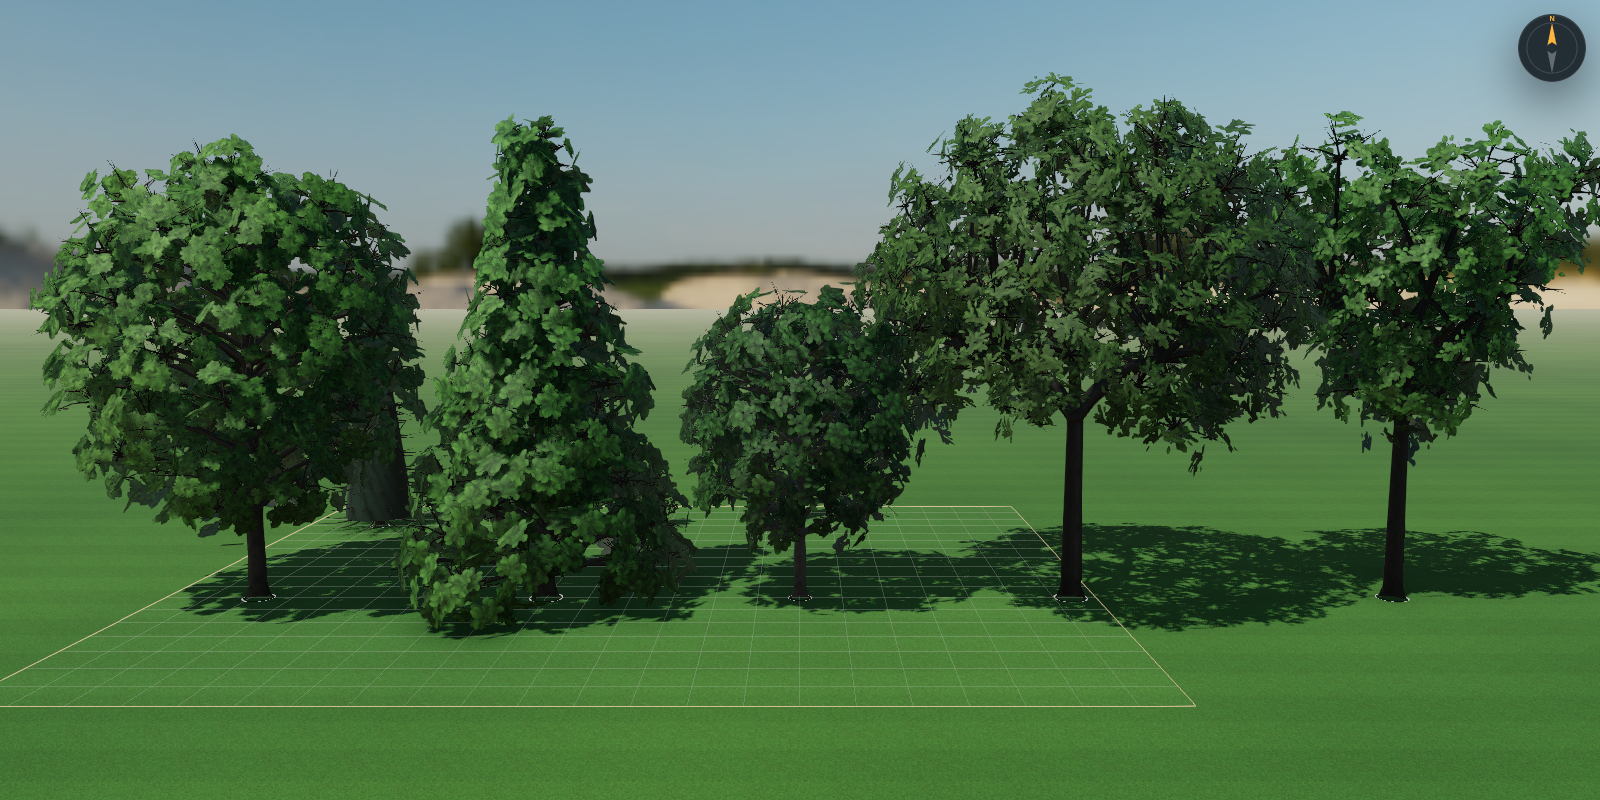
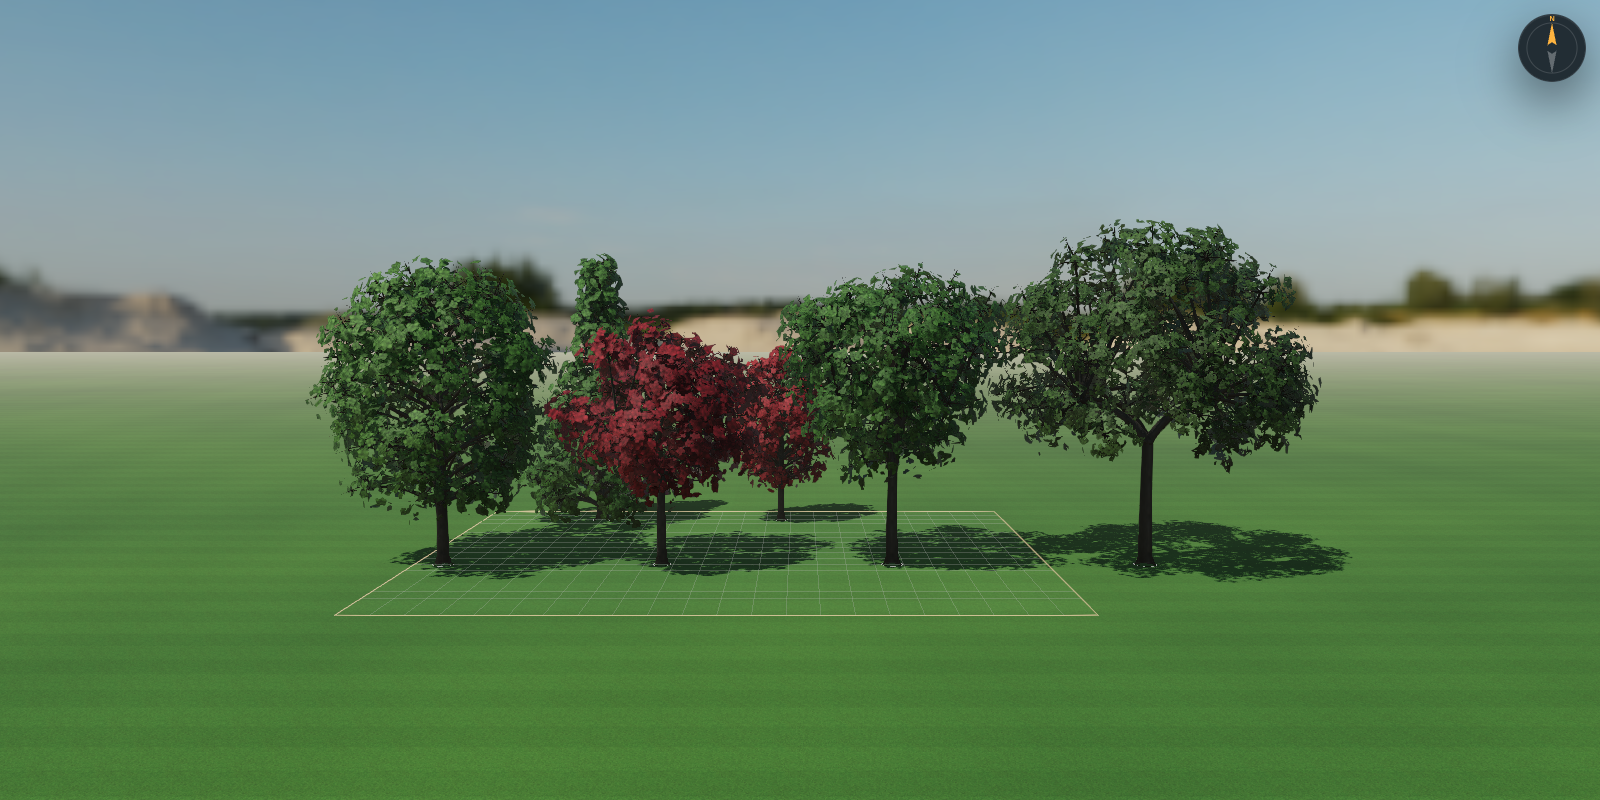
Tree variation, smaller leaves, canopy height, elm and columnar shapes
- Adjustable canopy start per tree (ft, 0.5 ft steps), used by both the
  3D tree and the shade engine
- Columnar shape is now a narrow pyramid; vase shape follows American elm
  (limbs climbing from a low fork into a broad, drooping dome)
- Controlled variation: 4 variants per variety with jittered limbs, clump
  placement, crown outline and occasional gaps; conifer whorls vary too
- Smaller leaves in a small/medium mix at the same coverage
- Red foliage for Crimson Sunset and Royal Red; add Crimson King maple and
  Colorado Blue Spruce presets
- Switching presets now carries the preset's leaf colours

Claude-Session: https://claude.ai/code/session_01WURfSMHAnRNE737jsRiEQb

diff --git a/src/trees/trees.js b/src/trees/trees.js
@@ -172,8 +172,8 @@ function card(B, base, tip, face, size, rnd, normalFn, aoFn) {
 /* ------------------------------------------------------------ builders */
 
 function crownGeometry(p) {
-  const { H, R, cb, fn, dens, kind, shape, hi } = p;
-  const r = rng(hash(`${shape}|${kind}|${H.toFixed(0)}|${R.toFixed(0)}`));
+  const { H, R, cb, fn, dens, kind, shape, hi, variant } = p;
+  const r = rng(hash(`${shape}|${kind}|${H.toFixed(0)}|${R.toFixed(0)}|${variant}`));
   const bark = new Buf();
   const leaves = new Buf();
   const mass = [];
@@ -241,7 +241,7 @@ function massGeometry(mass, p) {
 }
 
 function broadleaf(p, r, bark, leaves, mass, ctx) {
-  const { H, R, cb, dens, shape } = p;
+  const { H, R, cb, dens, shape, variant } = p;
   const { envelope, normalFn, aoFn, detail, trunkR, tipR, crownH } = ctx;
 
   // 1. Foliage clumps just inside the crown envelope, laid on one golden-angle
@@ -261,12 +261,19 @@ function broadleaf(p, r, bark, leaves, mass, ctx) {
     const u = (k - 1 + (target - cdf[k - 1]) / Math.max(1e-6, cdf[k] - cdf[k - 1])) / samples;
     const y = cb + u * crownH;
     const pr = envelope(y);
-    const a = i * GOLDEN;
-    const rad = Math.max(0, pr - clumpR * (0.62 + 0.18 * r()));
-    clumps.push({ c: V(Math.cos(a) * rad, y + (r() - 0.5) * clumpR * 0.3, Math.sin(a) * rad), a, outer: true });
+    const a = i * GOLDEN + (r() - 0.5) * 0.55;
+    // Lumpy, not lathe-turned: each clump sits a little in or out of the envelope.
+    const bump = 1 + (r() - 0.5) * 0.24;
+    const rad = Math.max(0, pr * bump - clumpR * (0.6 + 0.2 * r()));
+    if (i > 3 && r() < 0.06) continue;   // the odd gap in the canopy
+    let cy = y + (r() - 0.5) * clumpR * 0.5;
+    // Elms: the outer canopy arches over and droops at the rim.
+    if (shape === 'vase' && u > 0.45) cy -= clumpR * 0.35 * (u - 0.45) / 0.55;
+    clumps.push({ c: V(Math.cos(a) * rad, cy, Math.sin(a) * rad), a, outer: true, k: 0.8 + 0.4 * r() });
   }
   // A sparse inner layer so you don't see daylight through the middle.
-  const innerCount = Math.round(count * 0.18);
+  // Elms stay open underneath so the arching limbs show.
+  const innerCount = shape === 'vase' ? 0 : Math.round(count * 0.18);
   for (let i = 0; i < innerCount; i++) {
     const u = 0.15 + 0.7 * ((i + 0.5) / innerCount);
     const y = cb + u * crownH;
@@ -279,14 +286,15 @@ function broadleaf(p, r, bark, leaves, mass, ctx) {
   // 2. Skeleton. Leader shapes keep a central stem; the rest fork into scaffold limbs.
   const leader = shape === 'oval' || shape === 'pyramidal' || shape === 'columnar';
   const trunkTop = leader ? cb + crownH * 0.82 : cb;
-  const K = { spreading: 5, vase: 6, weeping: 5 }[shape] || 5;
+  const K = ({ spreading: 5, vase: 5, weeping: 5 }[shape] || 5) + (variant % 2 ? 1 : 0) - (variant === 2 ? 1 : 0);
   const scaffold = [];
   if (!leader) {
-    const reach = { spreading: 0.55, vase: 0.5, weeping: 0.35 }[shape] || 0.38;
-    const rise = { spreading: 0.22, vase: 0.5, weeping: 0.45 }[shape] || 0.35;
+    const reach = { spreading: 0.55, vase: 0.62, weeping: 0.35 }[shape] || 0.38;
+    const rise = { spreading: 0.22, vase: 0.6, weeping: 0.45 }[shape] || 0.35;
     for (let k = 0; k < K; k++) {
-      const a = (k / K) * Math.PI * 2;
-      const end = V(Math.cos(a) * R * reach, cb + crownH * rise, Math.sin(a) * R * reach);
+      const a = (k / K) * Math.PI * 2 + (r() - 0.5) * 0.5;
+      const rr = reach * (0.85 + 0.3 * r());
+      const end = V(Math.cos(a) * R * rr, cb + crownH * rise * (0.88 + 0.24 * r()), Math.sin(a) * R * rr);
       scaffold.push({ a, end, tips: 0 });
     }
   }
@@ -303,13 +311,19 @@ function broadleaf(p, r, bark, leaves, mass, ctx) {
     }
   }
   const segs = hi(detail, 10, 14);
-  tube(bark, curve(V(0, 0, 0), V(0, trunkTop * 0.5, 0), V(0, trunkTop, 0), 6), trunkR, leader ? tipR * 2 : trunkR * 0.72, segs);
+  const lean = V((r() - 0.5) * R * 0.05, 0, (r() - 0.5) * R * 0.05);
+  const top = leader ? V(lean.x, trunkTop, lean.z) : V(0, shape === 'vase' ? cb * 0.82 : trunkTop, 0);
+  tube(bark, curve(V(0, 0, 0), V(lean.x * 0.3, top.y * 0.5, lean.z * 0.3), top, 6), trunkR, leader ? tipR * 2 : trunkR * 0.72, segs);
   // A root flare where the trunk meets the ground.
   tube(bark, [V(0, -0.2, 0), V(0, 0.6, 0), V(0, 1.4, 0)], trunkR * 1.45, trunkR * 1.02, segs);
+  const fork = shape === 'vase' ? cb * 0.82 : cb * 0.97;
   for (const s of scaffold) {
-    const ctrl = V(s.end.x * 0.3, cb + (s.end.y - cb) * 0.75, s.end.z * 0.3);
+    // Elm limbs climb almost vertically before arching out; others spread sooner.
+    const ctrl = shape === 'vase'
+      ? V(s.end.x * 0.12, fork + (s.end.y - fork) * 0.92, s.end.z * 0.12)
+      : V(s.end.x * 0.3, cb + (s.end.y - cb) * 0.75, s.end.z * 0.3);
     const rs = Math.min(trunkR * 0.68, tipR * 1.4 * Math.sqrt(Math.max(1, s.tips)));
-    tube(bark, curve(V(0, cb * 0.97, 0), ctrl, s.end, 6), rs, rs * 0.6, hi(detail, 7, 9));
+    tube(bark, curve(V(0, fork, 0), ctrl, s.end, 7), rs, rs * 0.6, hi(detail, 7, 9));
   }
   for (const cl of clumps) {
     const A = cl.from;
@@ -339,8 +353,9 @@ function broadleaf(p, r, bark, leaves, mass, ctx) {
   }
 
   // 3. Leaves: leaf-cluster cards filling each clump, facing mostly outward.
-  const size = THREE.MathUtils.clamp(clumpR * 0.95, 1.4, 4.2) / (detail > 1 ? 1.3 : 1);
-  const perClump = Math.round((6 + 9 * dens) * (clumpR / size) ** 2 * (detail > 1 ? 1.4 : 1));
+  const size = THREE.MathUtils.clamp(clumpR * 0.72, 1.0, 3.0) / (detail > 1 ? 1.25 : 1);
+  // Mean card is ~0.75 × size, so scale the count to keep coverage.
+  const perClump = Math.round((6 + 9 * dens) * (clumpR / (size * 0.75)) ** 2 * (detail > 1 ? 1.3 : 1));
   for (const cl of clumps) {
     const P = cl.c;
     const nf = normalFn(P);
@@ -356,7 +371,8 @@ function broadleaf(p, r, bark, leaves, mass, ctx) {
       const face = d.clone().multiplyScalar(0.55).addScaledVector(out, 0.35).addScaledVector(UP, 0.25)
         .addScaledVector(randUnit(r), 0.45).normalize();
       const tip = V().crossVectors(face, randUnit(r)).normalize();
-      const s = size * (0.8 + 0.4 * r());
+      // Mostly small and medium sprays, a few large ones.
+      const s = size * (0.45 + 0.75 * r() ** 1.6) * (cl.k || 1);
       card(leaves, centre.addScaledVector(tip, -s * 0.5), tip, face, s, r(), nf, af);
     }
   }
@@ -395,13 +411,14 @@ function conifer(p, r, bark, leaves, mass, ctx) {
     const u = (j + 0.5) / whorls;
     const y = cb + u * crownH;
     const L = Math.max(0.3, envelope(y));
-    const n = THREE.MathUtils.clamp(Math.round(5 + L * 0.7), 5, 11);
+    const n = THREE.MathUtils.clamp(Math.round(5 + L * 0.7 + (r() - 0.5) * 2), 4, 12);
     for (let k = 0; k < n; k++) {
-      const a = (k / n) * Math.PI * 2 + j * GOLDEN;
+      if (r() < 0.08) continue;
+      const a = (k / n) * Math.PI * 2 + j * GOLDEN + (r() - 0.5) * 0.45;
       const dir = V(Math.cos(a), 0, Math.sin(a));
       // Habit: spruce droops then lifts at the tip; juniper and pine ascend.
       const lift = kind === 'spruce' ? -0.18 : kind === 'juniper' ? 0.7 : 0.4;
-      const len = kind === 'juniper' ? L * 0.95 : L;
+      const len = (kind === 'juniper' ? L * 0.95 : L) * (0.85 + 0.25 * r());
       const start = V(0, y - (kind === 'juniper' ? len * 0.35 : 0), 0);
       const end = start.clone().addScaledVector(dir, len).addScaledVector(UP, len * lift);
       const ctrl = start.clone().addScaledVector(dir, len * 0.55).addScaledVector(UP, len * (kind === 'spruce' ? -0.28 : lift * 0.4));
@@ -444,22 +461,22 @@ function conifer(p, r, bark, leaves, mass, ctx) {
     return { tip, face };
   };
   const clumpR = THREE.MathUtils.clamp(R * (kind === 'juniper' ? 0.42 : 0.38), 0.7, 4);
-  const cardS = THREE.MathUtils.clamp(clumpR * (kind === 'spruce' ? 1.5 : 1.25), 0.9, 5) / (detail > 1 ? 1.25 : 1);
+  const cardS = THREE.MathUtils.clamp(clumpR * (kind === 'spruce' ? 1.2 : 1.0), 0.7, 4) / (detail > 1 ? 1.25 : 1);
   const samples = 64;
   const cdf = [0];
   for (let i = 1; i <= samples; i++) cdf.push(cdf[i - 1] + Math.max(0.05, envelope(cb + ((i - 0.5) / samples) * crownH)));
   const shellArea = cdf[samples] * (crownH / samples) * Math.PI * 2;
   const count = THREE.MathUtils.clamp(Math.round((shellArea / (Math.PI * clumpR * clumpR)) * 1.4), 10, 220);
-  const per = Math.round((5 + 7 * dens) * (clumpR / cardS) ** 2 * 2.2 * (detail > 1 ? 1.4 : 1)) + 2;
+  const per = Math.round((5 + 7 * dens) * (clumpR / (cardS * 0.8)) ** 2 * 2.2 * (detail > 1 ? 1.3 : 1)) + 2;
   for (let i = 0; i < count; i++) {
     const target = ((i + 0.5) / count) * cdf[samples];
     let k = 1;
     while (k < samples && cdf[k] < target) k++;
     const u = (k - 1 + (target - cdf[k - 1]) / Math.max(1e-6, cdf[k] - cdf[k - 1])) / samples;
     const y = cb + u * crownH;
-    const a = i * GOLDEN;
+    const a = i * GOLDEN + (r() - 0.5) * 0.5;
     const out = V(Math.cos(a), 0, Math.sin(a));
-    const rad = Math.max(0, envelope(y) - clumpR * 0.55);
+    const rad = Math.max(0, envelope(y) * (1 + (r() - 0.5) * 0.16) - clumpR * 0.55);
     const P = V(out.x * rad, y, out.z * rad);
     const nf = normalFn(P);
     const af = aoFn(P, clumpR);
@@ -467,7 +484,7 @@ function conifer(p, r, bark, leaves, mass, ctx) {
       const d = randUnit(r);
       const centre = P.clone().addScaledVector(d, clumpR * 0.6 * Math.sqrt(r()));
       const { tip, face } = orient(d, out);
-      const s = cardS * (0.8 + 0.4 * r());
+      const s = cardS * (0.5 + 0.7 * r() ** 1.5);
       card(leaves, centre.addScaledVector(tip, -s * 0.35), tip, face, s, r(), nf, af);
     }
   }
@@ -549,10 +566,11 @@ export class TreeLibrary {
     const H = Math.max(2, t.height);
     const R = Math.max(0.5, t.spread / 2);
     const dens = Math.round(THREE.MathUtils.clamp(t.density ?? 0.85, 0.1, 1) * 20) / 20;
-    const key = [t.shape, kind, H.toFixed(1), R.toFixed(1), dens, crownBase.toFixed(2), this.high].join('|');
+    const variant = (t.id ?? 0) % 4;
+    const key = [t.shape, kind, H.toFixed(1), R.toFixed(1), dens, crownBase.toFixed(3), this.high, variant].join('|');
     let g = this.cache.get(key);
     if (!g) {
-      g = crownGeometry({ H, R, cb: H * crownBase, fn: profile, dens, kind, shape: t.shape, hi: this.high });
+      g = crownGeometry({ H, R, cb: H * crownBase, fn: profile, dens, kind, shape: t.shape, hi: this.high, variant });
       for (const x of Object.values(g)) if (x) x.userData.shared = true;
       this.cache.set(key, g);
       if (this.cache.size > 80) {

diff --git a/src/app.js b/src/app.js
@@ -17,9 +17,10 @@ const SHAPES = {
   round:     {label:"Round crown (maple, ash)",      base:.32, r:u=>Math.sqrt(Math.max(0,1-Math.pow(2*u-1,2)))},
   oval:      {label:"Upright oval (linden, alder)",  base:.22, r:u=>Math.pow(Math.max(0,1-Math.pow(2*u-1,2)),.36)},
   pyramidal: {label:"Pyramidal (spruce, fir)",       base:.05, r:u=>Math.pow(1-u,.8)},
-  columnar:  {label:"Columnar (juniper, mugo)",      base:.06, r:u=>u<.82?.92+.08*Math.sin(u*4):Math.sqrt(Math.max(0,1-Math.pow((u-.82)/.18,2)))},
+  columnar:  {label:"Columnar (narrow pyramid)",     base:.05, r:u=>Math.max(.04, Math.pow(1-u,.62))},
   spreading: {label:"Wide spreading (oak, locust)",  base:.40, r:u=>Math.pow(Math.sin(Math.PI*(.22+.72*u)),.45)},
-  vase:      {label:"Vase (elm, serviceberry)",      base:.42, r:u=>.32+.68*Math.pow(u,.75)},
+  vase:      {label:"Vase (elm, serviceberry)",      base:.36,
+              r:u=>u<.72 ? .16+.84*Math.pow(Math.sin(Math.PI/2*u/.72),1.25) : Math.sqrt(Math.max(0,1-Math.pow((u-.72)/.28,2)))},
   weeping:   {label:"Weeping (willow, river birch)", base:.16, r:u=>Math.pow(Math.sin(Math.PI*(.18+.78*u)),.42)}
 };
 const PRESETS = [
@@ -47,9 +48,9 @@ const PRESETS = [
   note:"Picea abies 'Cupressina'. Very narrow column that keeps its lower branches. Hardy to zone 3."},
  {g:"Shortlist", n:"Columnar Norway Pine", s:"columnar", h:25, w:8, ev:true, d:.85, leaf:0x2a4a26,
   note:"Narrow upright conifer. Mature size varies a lot between growers — confirm the tag."},
- {g:"Already here", n:"Royal Red maple", s:"round", h:35, w:25, ev:false, d:.95, leaf:0x4a2530, fall:0x5a1f1f,
+ {g:"Already here", n:"Royal Red maple", s:"round", h:35, w:25, ev:false, d:.95, leaf:0x8a2230, fall:0x9a2a1c,
   note:"Norway maple. Round, very dense crown — the deepest shade of the maples here."},
- {g:"Already here", n:"Crimson Sunset maple", s:"oval", h:35, w:22, ev:false, d:.90, leaf:0x5a2a36, fall:0x6a2424,
+ {g:"Already here", n:"Crimson Sunset maple", s:"oval", h:35, w:22, ev:false, d:.90, leaf:0x92222e, fall:0xa0301e,
   note:"Upright oval, purple foliage, denser and narrower than a Freeman maple."},
  {g:"Already here", n:"Swamp white oak", s:"spreading", h:55, w:50, ev:false, d:.70, leaf:0x3f5f2a, fall:0x8a5a2a,
   note:"Wide spreading crown with a fairly open interior. Leafs out late."},
@@ -57,6 +58,10 @@ const PRESETS = [
   note:"Vase shape with a high crown, so shade lands well out from the trunk."},
  {g:"Already here", n:"Flowering crabapple", s:"round", h:18, w:18, ev:false, d:.70, leaf:0x4a7030, fall:0xa0702a,
   note:"Small round crown, light shade. Safe near a bed."},
+ {g:"Shortlist", n:"Crimson King maple", s:"round", h:40, w:35, ev:false, d:.95, leaf:0x7e1a26, fall:0x8e2a1c,
+  note:"Norway maple with deep red-maroon leaves all season. Dense, round crown and heavy shade."},
+ {g:"Shortlist", n:"Colorado Blue Spruce", s:"pyramidal", h:50, w:20, ev:true, d:.93, leaf:0x7092a8,
+  note:"Picea pungens. Silver-blue needles on a stiff, broad pyramid. Very hardy (zone 2); shades year round."},
  {g:"Already here", n:"Black Hills spruce", s:"pyramidal", h:35, w:18, ev:true, d:.95, leaf:0x3a5a4a,
   note:"Dense conifer that shades year round, including the low winter sun."},
  {g:"Already here", n:"Pinky Winky hydrangea", s:"round", h:8, w:6, ev:false, d:.75, leaf:0x4a7a30, fall:0x8a6a30,
@@ -392,9 +397,16 @@ function bearingVec(az){
 }
 
 /* ============================================================ shade geometry */
+/* Height (ft) where the lowest leaves start: the tree's own setting, or the
+   crown shape's default. The shade engine and the 3D tree both use this. */
+function crownBaseFt(t){
+  const sh = SHAPES[t.shape] || SHAPES.round;
+  const top = Math.max(1, t.height - 1);
+  return clamp(Number.isFinite(t.crownBase) ? t.crownBase : Math.round(t.height*sh.base*2)/2, 0, top);
+}
 function treeCrown(t){
   const sh = SHAPES[t.shape] || SHAPES.round;
-  return {cb: t.height*sh.base, top: t.height, R: t.spread/2, fn: sh.r};
+  return {cb: crownBaseFt(t), top: t.height, R: t.spread/2, fn: sh.r};
 }
 function treeDiscs(t, u, cot){
   const {cb, top, R, fn} = treeCrown(t);
@@ -759,7 +771,7 @@ function buildTree(t){
   if(S.simple){ buildTreeSimple(grp, t, {cb, top, R, fn}); return grp; }
 
   const sh = SHAPES[t.shape] || SHAPES.round;
-  grp.add(trees.build(t, {bare, fall:fallAmount(), crownBase:sh.base, profile:sh.r}));
+  grp.add(trees.build(t, {bare, fall:fallAmount(), crownBase:crownBaseFt(t)/Math.max(1, t.height), profile:sh.r}));
 
   const r0 = Math.max(.5, trunkR*2.1);
   const ring = new THREE.Mesh(new THREE.RingGeometry(r0, r0+.3, 28),
@@ -2390,7 +2402,7 @@ function drawPanel(){
   }
   title.textContent = o.name;
   tag.textContent = o.type === "structure" ? "building" : o.type;
-  const key = [o.id, nodeEdit, activeNode, o.poly?o.poly.length:0].join("|");
+  const key = [o.id, nodeEdit, activeNode, o.poly?o.poly.length:0, o.type === "tree" ? o.height+"|"+o.shape : ""].join("|");
   if(panelFor === key){
     if(o.type === "boundary" && !props.contains(document.activeElement)){
       panelFor = "init";
@@ -2400,7 +2412,7 @@ function drawPanel(){
     props.querySelectorAll("input[data-key]").forEach(i=>{
       if(document.activeElement === i) return;
       if(i.type === "checkbox") i.checked = !!o[i.dataset.key];
-      else i.value = o[i.dataset.key];
+      else i.value = i.dataset.key === "crownBase" ? crownBaseFt(o) : o[i.dataset.key];
     });
     const box = props.querySelector(".stat");
     if(box){
@@ -2425,6 +2437,7 @@ function drawPanel(){
       + `<select data-key="shape">${Object.entries(SHAPES).map(([k,v])=>`<option value="${k}" ${k===o.shape?"selected":""}>${v.label}</option>`).join("")}</select>`
       + slider("Height","height",2,90,1,o.height)
       + slider("Crown width","spread",1,80,1,o.spread)
+      + slider("Canopy starts at","crownBase",0,Math.max(1, o.height-1),.5,crownBaseFt(o))
       + slider("Canopy density","density",.1,1,.05,o.density ?? .85,"×")
       + `<div class="field"><span class="lab">Evergreen</span><input type="checkbox" class="sw" data-key="evergreen" ${o.evergreen?"checked":""}></div>`
       + `<h4>Position</h4>`
@@ -2471,15 +2484,15 @@ function drawPanel(){
   props.innerHTML = html;
   syncRanges(props);
 }
-const GEOKEYS = new Set(["height","spread","density","shape","evergreen","w","h","surface"]);
+const GEOKEYS = new Set(["height","spread","density","shape","evergreen","w","h","surface","crownBase"]);
 props.addEventListener("input", e=>{
   const o = selected();
   if(!o) return;
   if(e.target.hasAttribute("data-preset")){
     const p = PRESETS[+e.target.value];
     if(!p) return;
-    o.name = p.n; o.shape = p.s; o.height = p.h; o.spread = p.w;
-    o.evergreen = p.ev; o.density = p.d; o.note = p.note;
+    o.name = p.n; o.shape = p.s; o.height = p.h; o.spread = p.w; delete o.crownBase;
+    o.evergreen = p.ev; o.density = p.d; o.note = p.note; o.leaf = p.leaf; o.fall = p.fall;
     panelFor = null;
     rebuildObject(o); drawPanel(); drawList(); updateSelection(); scheduleCompute();
     return;

diff --git a/src/trees/leafTextures.js b/src/trees/leafTextures.js
@@ -204,7 +204,7 @@ function paintBroadleafSprig(g, N, spec, rand) {
 function paintBroadleafCluster(g, N, spec, rand) {
   const cx = N / 2;
   const cy = N / 2;
-  const M = spec.veins === 'palmate' ? 22 : 30;
+  const M = spec.veins === 'palmate' ? 34 : 46;
   const leaves = [];
   for (let i = 0; i < M; i++) {
     // Irregular scatter (not a rosette): random positions in a lumpy disc.
@@ -227,7 +227,8 @@ function paintBroadleafCluster(g, N, spec, rand) {
   // Inner leaves first (shaded), outer ones last so the rim stays crisp.
   leaves.sort((p, q) => p.f - q.f);
   for (const l of leaves) {
-    const size = N * Math.min(spec.size, 0.15) * 1.25 * (0.85 + rand() * 0.3);
+    // Smaller leaves, more of them: medium and small, a few large.
+    const size = N * Math.min(spec.size, 0.15) * (0.7 + rand() ** 1.5 * 0.55);
     // Mostly hanging with the light, pointing any which way.
     const rot = (rand() < 0.6 ? l.a + Math.PI / 2 : rand() * Math.PI * 2) + (rand() - 0.5) * 1.6;
     // Shade toward the centre: this is what makes the card read as a volume.

diff --git a/README.md b/README.md
@@ -29,7 +29,7 @@ All of the original planner's features and navigation are unchanged:
 - **Everything in the yard:** every object with its size, distance to the property line and sun hours.
 - **Plan file:** save and open JSON plans, start over, undo and redo (60 steps), and import a property image to trace and scale the lot.
 - **Inspector:**
-  - Tree presets and crown shapes, with property-line clearance.
+  - Tree presets and crown shapes, with property-line clearance. **Canopy starts at** sets the height of the lowest leaves (ft, 0.5 ft steps); the shade engine uses it too.
   - Bed sun hours with a planting verdict.
   - Reshaping and height for buildings, decks and paving.
   - Duplicate and delete.
@@ -57,7 +57,7 @@ The sun position comes from the original's NOAA-based solar maths. It matches su
 | --- | --- |
 | HDRI or physical sky. The HDRI's sun is detected, clamped out of the lighting, and rotated to the solar-maths sun, with house angle vs. north applied. | `src/scene/environment.js` |
 | RenderPass → N8AO → ACES → SMAA, half-float buffers, with no tone mapping on the renderer. It switches cleanly between the perspective and plan (orthographic) cameras. | `src/post.js` |
-| Procedural trees built in feet from each tree's crown shape (the same profile the shade engine uses), height, spread and density. Broadleaves fill the crown with leaf clumps on a golden-angle spiral, then grow a symmetric skeleton (trunk, scaffold limbs or central leader, branches, winter twigs) to reach them. Conifers grow in whorls with their own habits: spruce (drooping layered sprays), juniper (dense upright scale foliage with berries), pine and mugo (needle tufts, mugo multi-stemmed). Interior leaves are shaded darker; fall colour starts on the sun-facing outer leaves. EZ-Tree supplies only the bark textures. | `src/trees/trees.js` |
+| Procedural trees built in feet from each tree's crown shape (the same profile the shade engine uses), height, spread and density. Broadleaves fill the crown with leaf clumps on a golden-angle spiral, then grow a symmetric skeleton (trunk, scaffold limbs or central leader, branches, winter twigs) to reach them. Conifers grow in whorls with their own habits: spruce (drooping layered sprays), juniper (dense upright scale foliage with berries), pine and mugo (needle tufts, mugo multi-stemmed). Each variety grows consistently, with small per-tree variation in limbs, clump placement and crown outline so plantings don't look cloned. Foliage is a mix of small and medium leaf sprays. Interior leaves are shaded darker; fall colour starts on the sun-facing outer leaves. EZ-Tree supplies only the bark textures. | `src/trees/trees.js` |
 | Buildings: foundation, corner boards, fascia and soffit, windows and a door on the wall facing the patio, generated for any outline and merged into a few draw calls | `src/app.js` (`buildingDetails`) |
 | Procedural foliage per species: maple, linden, alder, elm, oak and general broadleaf clusters; spruce, juniper and mugo pine sprays. Standard 1024 px, or 2048 px with High tree detail. | `src/trees/leafTextures.js` |
 | Procedural lawn (blade strokes plus normal map, mowing stripes along the grid), concrete, pavers, siding and shingles | `src/scene/textures.js` |
